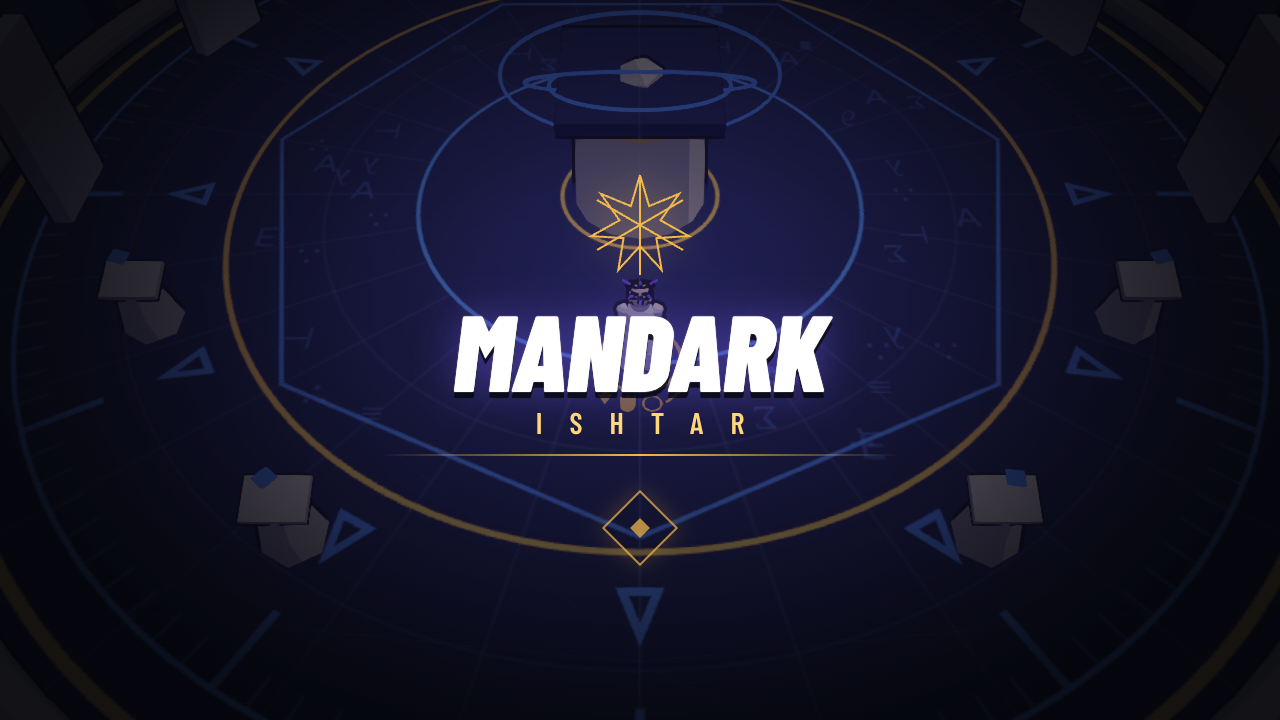
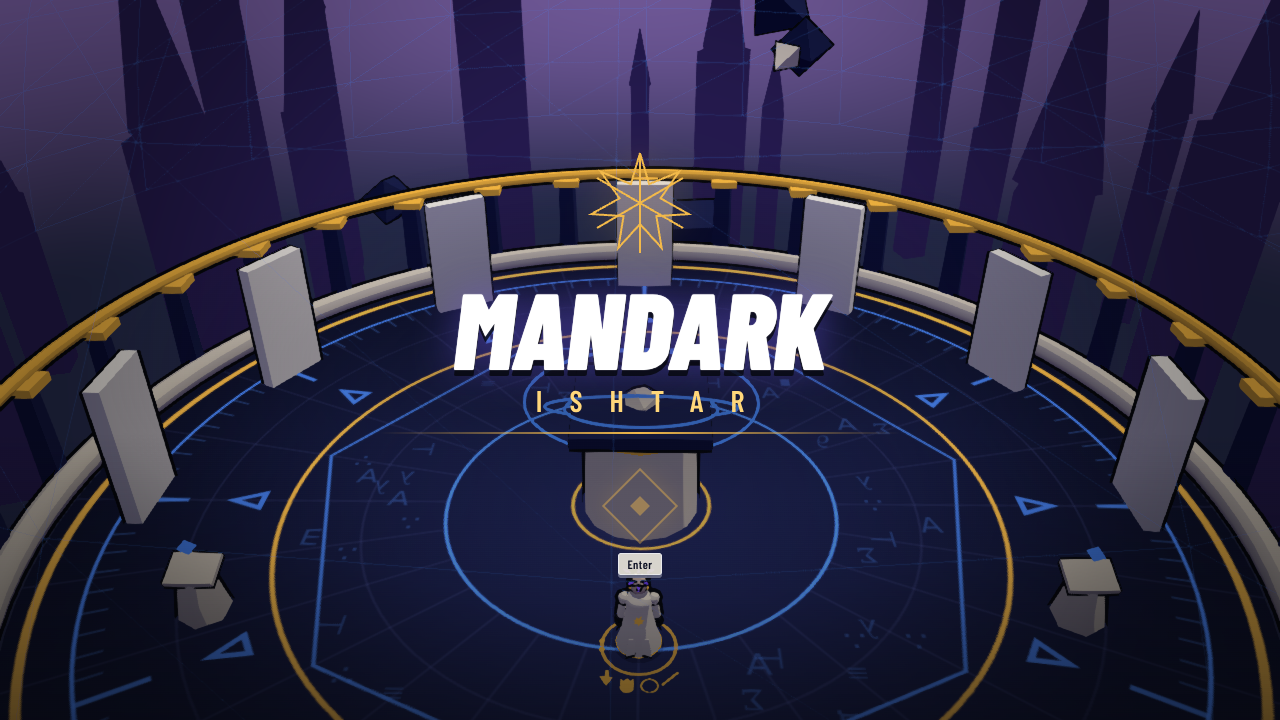
Title: orbiting moonlit backdrop and a press-start beat
The title and main-menu backdrop slowly orbits the Observatory at a low angle,
bringing the moon and skyline into frame (held still under Reduce motion).
Pressing start bursts a double diamond ring, lifts the wordmark, plays the
confirm sound and a soft flash scaled by Flash intensity, then opens the menu.
Title and bar-menu overlays lightened; sky shader normalised per pixel for a
round moon kept just under the bloom threshold.

npm run check green.

Claude-Session: https://claude.ai/code/session_01HCSJ6Hs4obmjjZFpmRq7rx

diff --git a/src/ui/bbStyles.ts b/src/ui/bbStyles.ts
@@ -17,7 +17,8 @@ export const tierFrame = (t: Tier) => frameSvg(TIER[t], "rgba(9,12,30,0.94)");
 
 export const BB_CSS = `
 /* slanted choice bars */
-.screen.bars-screen{align-items:flex-end;justify-content:center;padding-right:0}
+.screen.bars-screen{align-items:flex-end;justify-content:center;padding-right:0;background:linear-gradient(90deg,rgba(5,6,11,.05) 25%,rgba(5,6,11,.45) 60%,rgba(5,6,11,.8))}
+.screen.title-screen{background:radial-gradient(ellipse 60% 45% at 50% 52%,rgba(5,6,11,.45),rgba(5,6,11,0) 70%),linear-gradient(rgba(5,6,11,0) 60%,rgba(5,6,11,.55))}
 .menu.bars{gap:12px;min-width:min(620px,62vw);margin:0}
 .menu.bars .item{border:none;border-image:none;margin:0;height:64px;padding:0 64px 0 40px;justify-content:flex-end;gap:18px;font-size:calc(32px*var(--ts));font-weight:800;letter-spacing:.04em;color:#aab0d0;
   clip-path:polygon(26px 0,100% 0,100% 100%,0 100%);background:linear-gradient(90deg,rgba(14,18,44,0) 0%,rgba(14,18,44,.88) 28%,rgba(22,28,64,.95));
@@ -50,6 +51,19 @@ export const BB_CSS = `
 .codex .entry.card .hex{width:170px;height:196px;margin-bottom:16px}
 .codex .entry.card .note{text-align:left;align-self:stretch}
 .codex .entry.card .marg{text-align:left;align-self:stretch}
+/* press-start beat */
+.glyph-prompt{position:relative}
+.glyph-prompt .burst{position:absolute;inset:-2px;border:2px solid var(--gold);opacity:0;pointer-events:none}
+.title-out .glyph-prompt{animation:none;opacity:1}
+.title-out .glyph-prompt .burst{animation:burst .55s cubic-bezier(.15,.8,.3,1) forwards}
+.title-out .glyph-prompt .burst.b2{animation-delay:.08s;border-color:#fff6e0}
+.title-out .glyph-prompt>i{background:#fff6e0;box-shadow:0 0 18px #ffd77a}
+@keyframes burst{0%{opacity:1;transform:scale(1)}100%{opacity:0;transform:scale(9);border-width:1px}}
+.title-out .wordmark{animation:wordout .5s cubic-bezier(.5,0,.8,.4) forwards}
+.title-out svg.sigil,.title-out .title-gl{transition:opacity .35s;opacity:0}
+@keyframes wordout{to{opacity:0;transform:translateY(-26px) skewX(-8deg);filter:blur(3px)}}
+.rm .title-out .wordmark{animation:none;opacity:0;transition:opacity .12s}
+.rm .title-out .burst{animation:none!important}
 .rm .screen,.rm .panel,.rm .wordmark,.rm .results .rankbig,.rm .menu.bars .item{animation:none!important}
 .rm .item{transition:none!important}
 `;

diff --git a/src/render/CameraRig.ts b/src/render/CameraRig.ts
@@ -13,10 +13,13 @@ export class CameraRig {
   private introT = 0;
   zoom = 1;
   reducedMotion = false;
+  /** Title/menu backdrop: a low, slow orbit of the arena centre that lets the moon and skyline pass through frame. */
+  cinematic = false;
 
   constructor(private readonly cam: THREE.PerspectiveCamera) { cam.fov = CAMERA.fovDeg; }
 
   reset(w: World): void {
+    this.cinematic = false;
     this.yaw = this.yawTarget = (w.def.arena.yawDeg * Math.PI) / 180;
     this.focus.set(w.markov.pos.x, 0, w.markov.pos.z);
     this.pitch = w.def.boss === "giant" ? CAMERA.giant.pitchDeg : CAMERA.pitchDeg;
@@ -29,6 +32,7 @@ export class CameraRig {
   /** shake: the shell TraumaShake offset (already scaled by the accessibility slider). */
   update(w: World, mx: number, mz: number, punch: { x: number; z: number; t: number }, shake: { x: number; y: number; z: number }): void {
     const def = w.def;
+    if (this.cinematic) { this.orbit(); return; }
     let pitch: number = CAMERA.pitchDeg, dist: number = CAMERA.distance;
     if (def.boss === "giant") { pitch = CAMERA.giant.pitchDeg; dist = CAMERA.giant.distance; }
     if (def.boss === "child") dist = CAMERA.child.distance;
@@ -65,6 +69,16 @@ export class CameraRig {
     this.cam.position.x += shake.x; this.cam.position.y += shake.y; this.cam.position.z += shake.z;
     const lookY = def.boss === "ishtar" && (w.flags.ishtarPhase ?? 0) >= 3 ? 6 : 0;
     this.cam.lookAt(cx, lookY, cz);
+  }
+  private orbitYaw = 0;
+  private orbit(): void {
+    const C = CAMERA.title;
+    if (!this.reducedMotion) this.orbitYaw += C.yawPerFrame;
+    this.focus.multiplyScalar(0.94); // ease onto the arena centre
+    this.pitch += (C.pitchDeg - this.pitch) * 0.05; this.distance += (C.distance - this.distance) * 0.05;
+    const yaw = this.yaw + this.orbitYaw, pr = (this.pitch * Math.PI) / 180, d = this.distance;
+    this.cam.position.set(this.focus.x - Math.sin(yaw) * Math.cos(pr) * d, Math.sin(pr) * d + C.lookY * 0.4, this.focus.z - Math.cos(yaw) * Math.cos(pr) * d);
+    this.cam.lookAt(this.focus.x, C.lookY, this.focus.z);
   }
   get introActive(): boolean { return this.introT > 0; }
 }

diff --git a/src/app/App.ts b/src/app/App.ts
@@ -341,9 +341,12 @@ export class App {
     this.ui.hideHud();
     const c = el("div", "");
     c.style.cssText = "display:flex;flex-direction:column;align-items:center";
-    c.innerHTML = `${SIGIL_SVG.replace('width="180" height="180"', 'width="120" height="120"')}<div class="wordmark"><b>MANDARK</b><span>ISHTAR</span><i></i></div><div class="glyph-prompt"><i></i></div><div class="title-gl" data-ui="accept"></div>`;
-    this.ui.show(c);
+    c.innerHTML = `${SIGIL_SVG.replace('width="180" height="180"', 'width="120" height="120"')}<div class="wordmark"><b>MANDARK</b><span>ISHTAR</span><i></i></div><div class="glyph-prompt"><i></i><b class="burst"></b><b class="burst b2"></b></div><div class="title-gl" data-ui="accept"></div>`;
+    this.titleLeaving = false;
+    this.ui.show(c, null, true);
+    this.ui.screen.firstElementChild?.classList.add("title-screen");
     this.loadBackdrop(OBSERVATORY);
+    this.camera.cinematic = true;
   }
 
   private loadBackdrop(def: EncounterDef): void {
@@ -352,8 +355,19 @@ export class App {
     this.camera.reset(this.world);
   }
 
+  private titleLeaving = false;
+  /** Press-start beat: ring burst + wordmark lift + confirm sound, then the menu (or cold open). */
   private onTitleAccept(): void {
+    if (this.titleLeaving) return;
+    this.titleLeaving = true;
     this.audio.unlock();
+    this.audio.sfx("ui.confirm");
+    const rm = this.a11y.reducedMotion;
+    this.ui.screen.firstElementChild?.classList.add("title-out");
+    if (!rm) this.ui.flashWhite(320, 0.22 * this.a11y.flashIntensity);
+    setTimeout(() => { if (this.mode === "title") this.leaveTitle(); }, rm ? 140 : 560);
+  }
+  private leaveTitle(): void {
     this.music.play("title");
     if (!this.progress.data.seenColdOpen) { this.startCampaignFrom("coldOpen"); return; }
     this.mainMenu();

diff --git a/src/world/ArenaKit.ts b/src/world/ArenaKit.ts
@@ -87,14 +87,14 @@ export function starfield(): THREE.Mesh {
     vertexShader: `varying vec3 vP; void main(){ vP = normalize(position); gl_Position = projectionMatrix * modelViewMatrix * vec4(position,1.0); }`,
     fragmentShader: `uniform float warm; uniform vec3 moonDir; varying vec3 vP;
       float h(vec3 p){ return fract(sin(dot(p, vec3(12.9898,78.233,37.719))) * 43758.5453); }
-      void main(){ float y = vP.y;
+      void main(){ vec3 n = normalize(vP); float y = n.y;
         vec3 zen = vec3(0.035,0.05,0.14), hor = vec3(0.26,0.16,0.48), low = vec3(0.02,0.025,0.07);
         vec3 col = y > 0.0 ? mix(hor, zen, smoothstep(0.0, 0.55, y)) : mix(hor, low, smoothstep(0.0, -0.35, y));
-        vec3 g = floor(vP * 260.0); float s = step(0.9965, h(g)) * (0.6 + 0.4 * h(g + 1.0)) * smoothstep(-0.1, 0.2, y);
+        vec3 g = floor(n * 260.0); float s = step(0.9965, h(g)) * (0.6 + 0.4 * h(g + 1.0)) * smoothstep(-0.1, 0.2, y);
         col += vec3(s) * vec3(0.8,0.85,1.0);
-        float md = dot(vP, moonDir);
-        col = mix(col, vec3(1.0,0.95,0.78), smoothstep(0.9935, 0.9945, md));
-        col += vec3(0.35,0.3,0.55) * pow(max(md, 0.0), 180.0) * 0.6;
+        float md = dot(n, moonDir);
+        col += vec3(0.4,0.34,0.62) * pow(max(md, 0.0), 260.0) * 0.45;
+        col = mix(col, vec3(0.93,0.88,0.72), smoothstep(0.9935, 0.9943, md));
         vec3 dawn = mix(vec3(1.0,0.86,0.62), vec3(1.0,0.97,0.9), smoothstep(-0.2,0.6,y));
         gl_FragColor = vec4(mix(col, dawn, warm), 1.0); }`,
   });

diff --git a/src/data/camera.ts b/src/data/camera.ts
@@ -17,4 +17,6 @@ export const CAMERA = {
   giant: { pitchDeg: 65, distance: 24 },
   child: { distance: 16 },
   ishtarP3: { pitchDeg: 20, distance: 14 },
+  /** Title/menu orbit (presentation only). */
+  title: { pitchDeg: 14, distance: 30, lookY: 6, yawPerFrame: 0.0011 },
 } as const;

diff --git a/DECISIONS.md b/DECISIONS.md
@@ -75,3 +75,4 @@ Append-only. Format: `YYYY-MM-DD — Decision — Why — Status (LOCKED / provi
 - 2026-11-10 — Rebind capture: Start/Menu/Options cancels on a controller (it was already excluded from binding); Esc cancels on keyboard; the Cancel prompt is clickable — LOCKED (controller parity)
 - 2026-11-10 — From the BB:EEX references (settings screens): Settings split into Audio / Gameplay / Display / Controls / Other tabs, switched with LB/RB (Q/E on keyboard) or by clicking; adjustable values show ‹ › on focus and every cycling value accepts left/right; prompt-bar entries are clickable for mouse users. Tab choice is remembered for the session — provisional
 - 2026-11-10 — BB:EEX menu patterns adopted: (1) slanted right-side choice bars that slide in, focused bar filled gold with ink text — main, pause, arcade, Time Attack picker, retry; long lists (Theorems, Codex, Controls) stay in panels; (2) top-centre hint line with a waveform, used only for real instructions/choice info (arcade mode descriptions, rebind capture); (3) settings description panel for options that need a sentence; (4) hex-emblem cards with category frame colours (Law blue, Boss gold, Theorem ivory, Story violet) plus a category word so colour is never the only cue. Reduce motion now also disables menu animation — provisional
+- 2026-11-10 — Title/menu backdrop is a slow, low orbit of the Observatory (pitch 14°, lookY 6, ~4°/s; held still under Reduce motion) so the moon and skyline pass through frame; the title and bar-menu overlays are lightened so the scene shows. Press-start beat: double diamond ring burst, wordmark lift, soft flash scaled by Flash intensity, ui.confirm, then the menu after ~0.55 s (0.14 s, no burst, under Reduce motion). Sky shader now normalises per pixel (round moon) and the moon sits just under the bloom threshold — provisional
